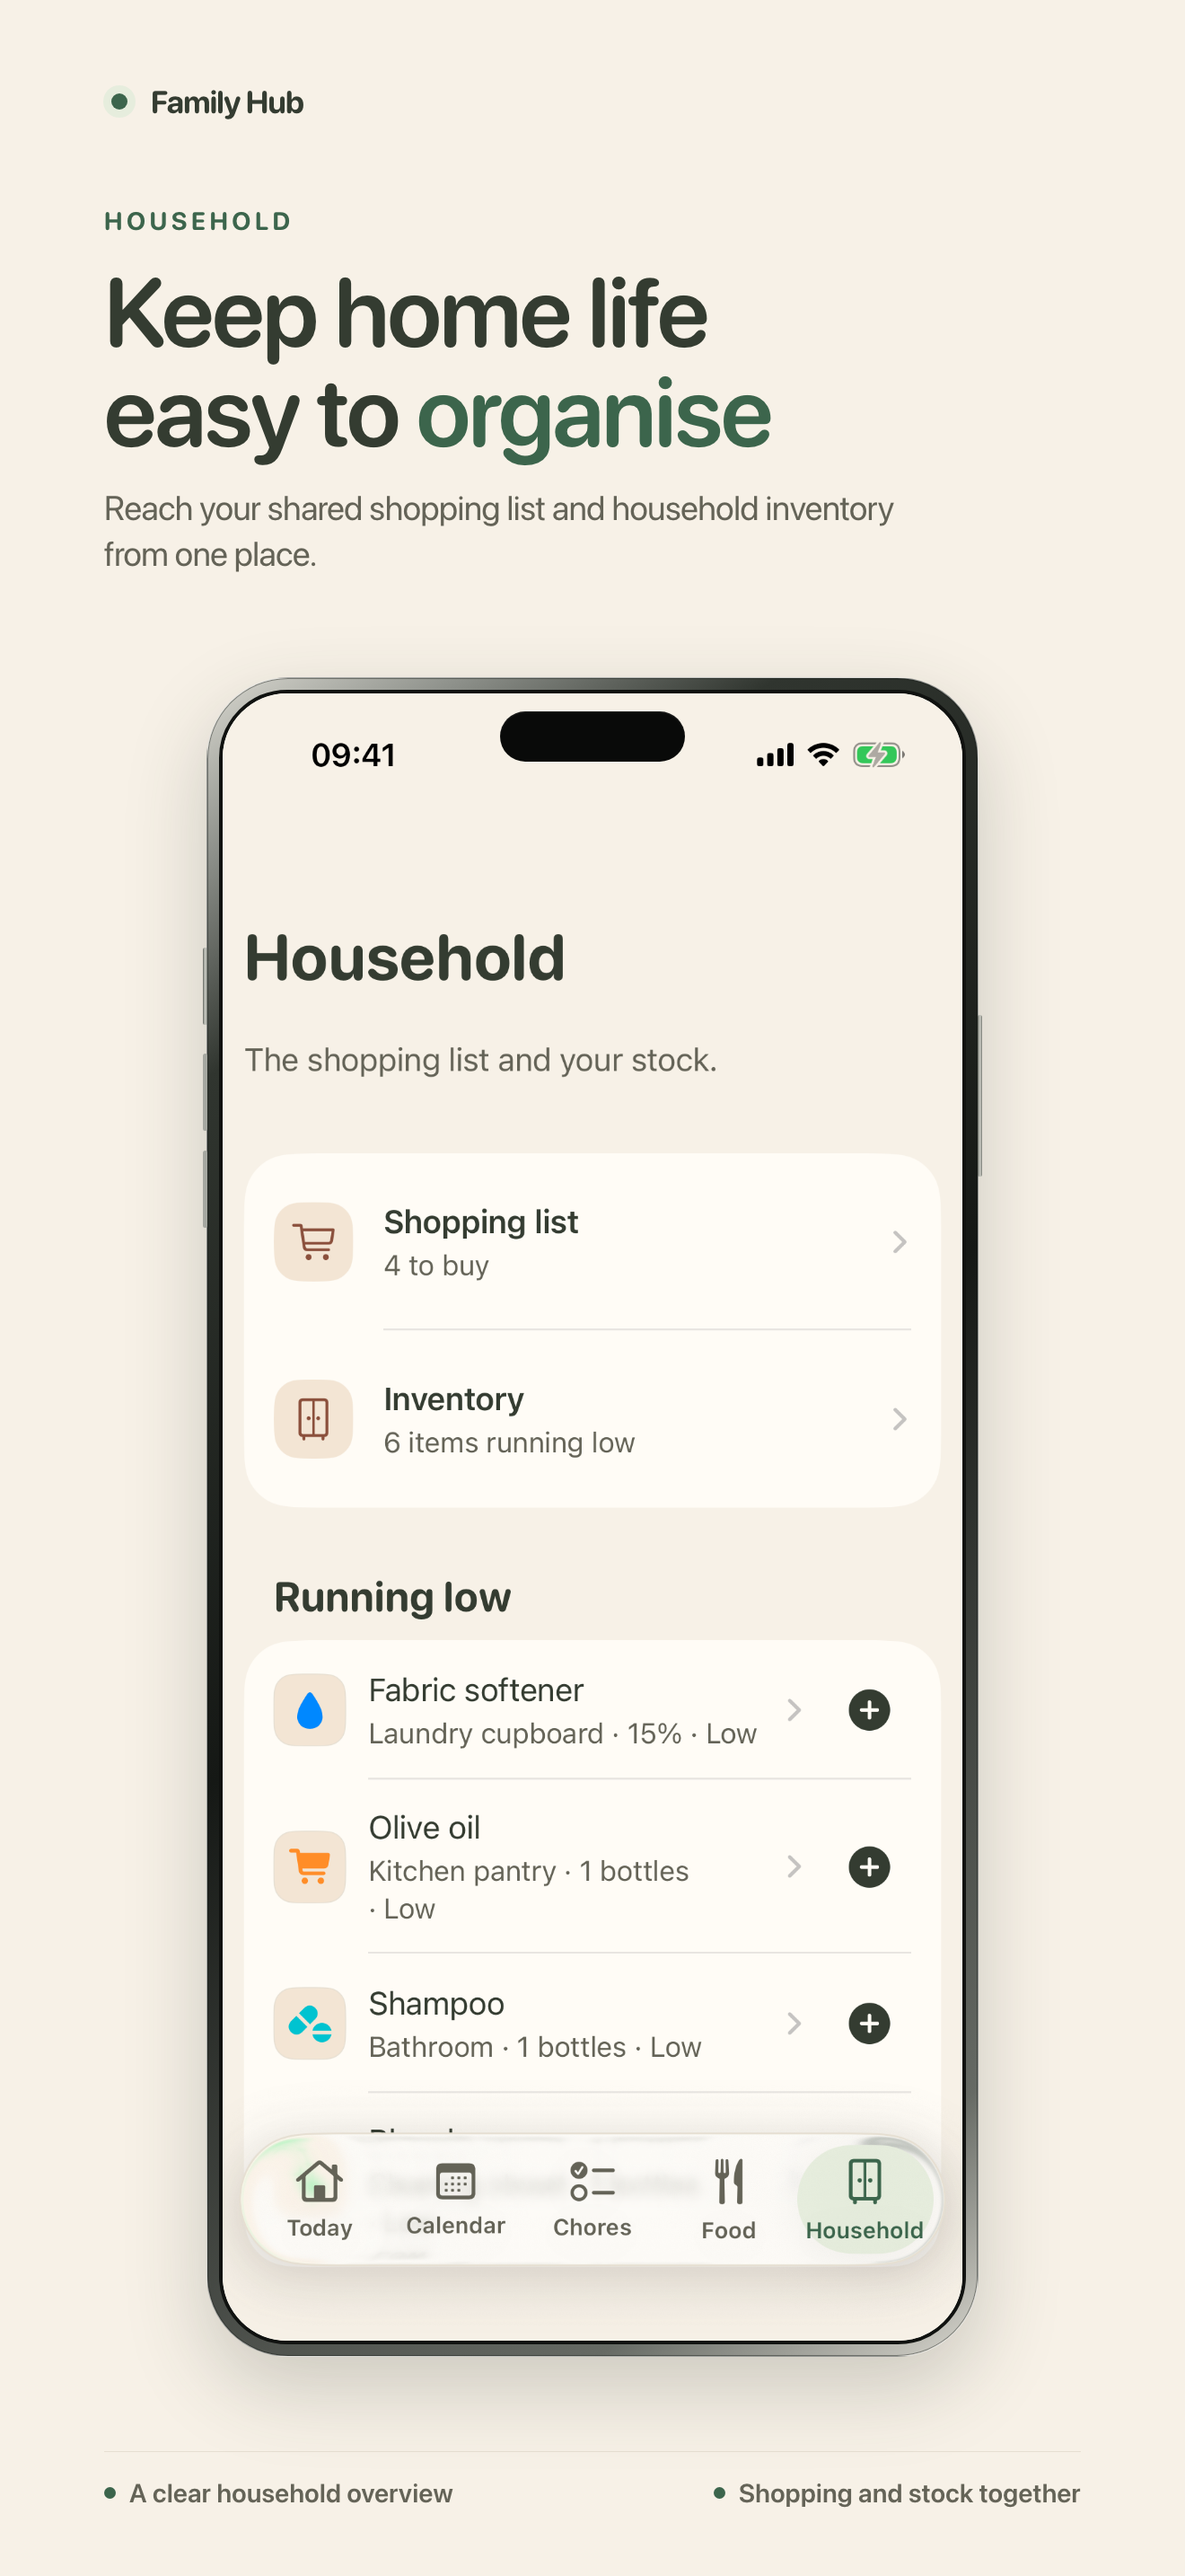
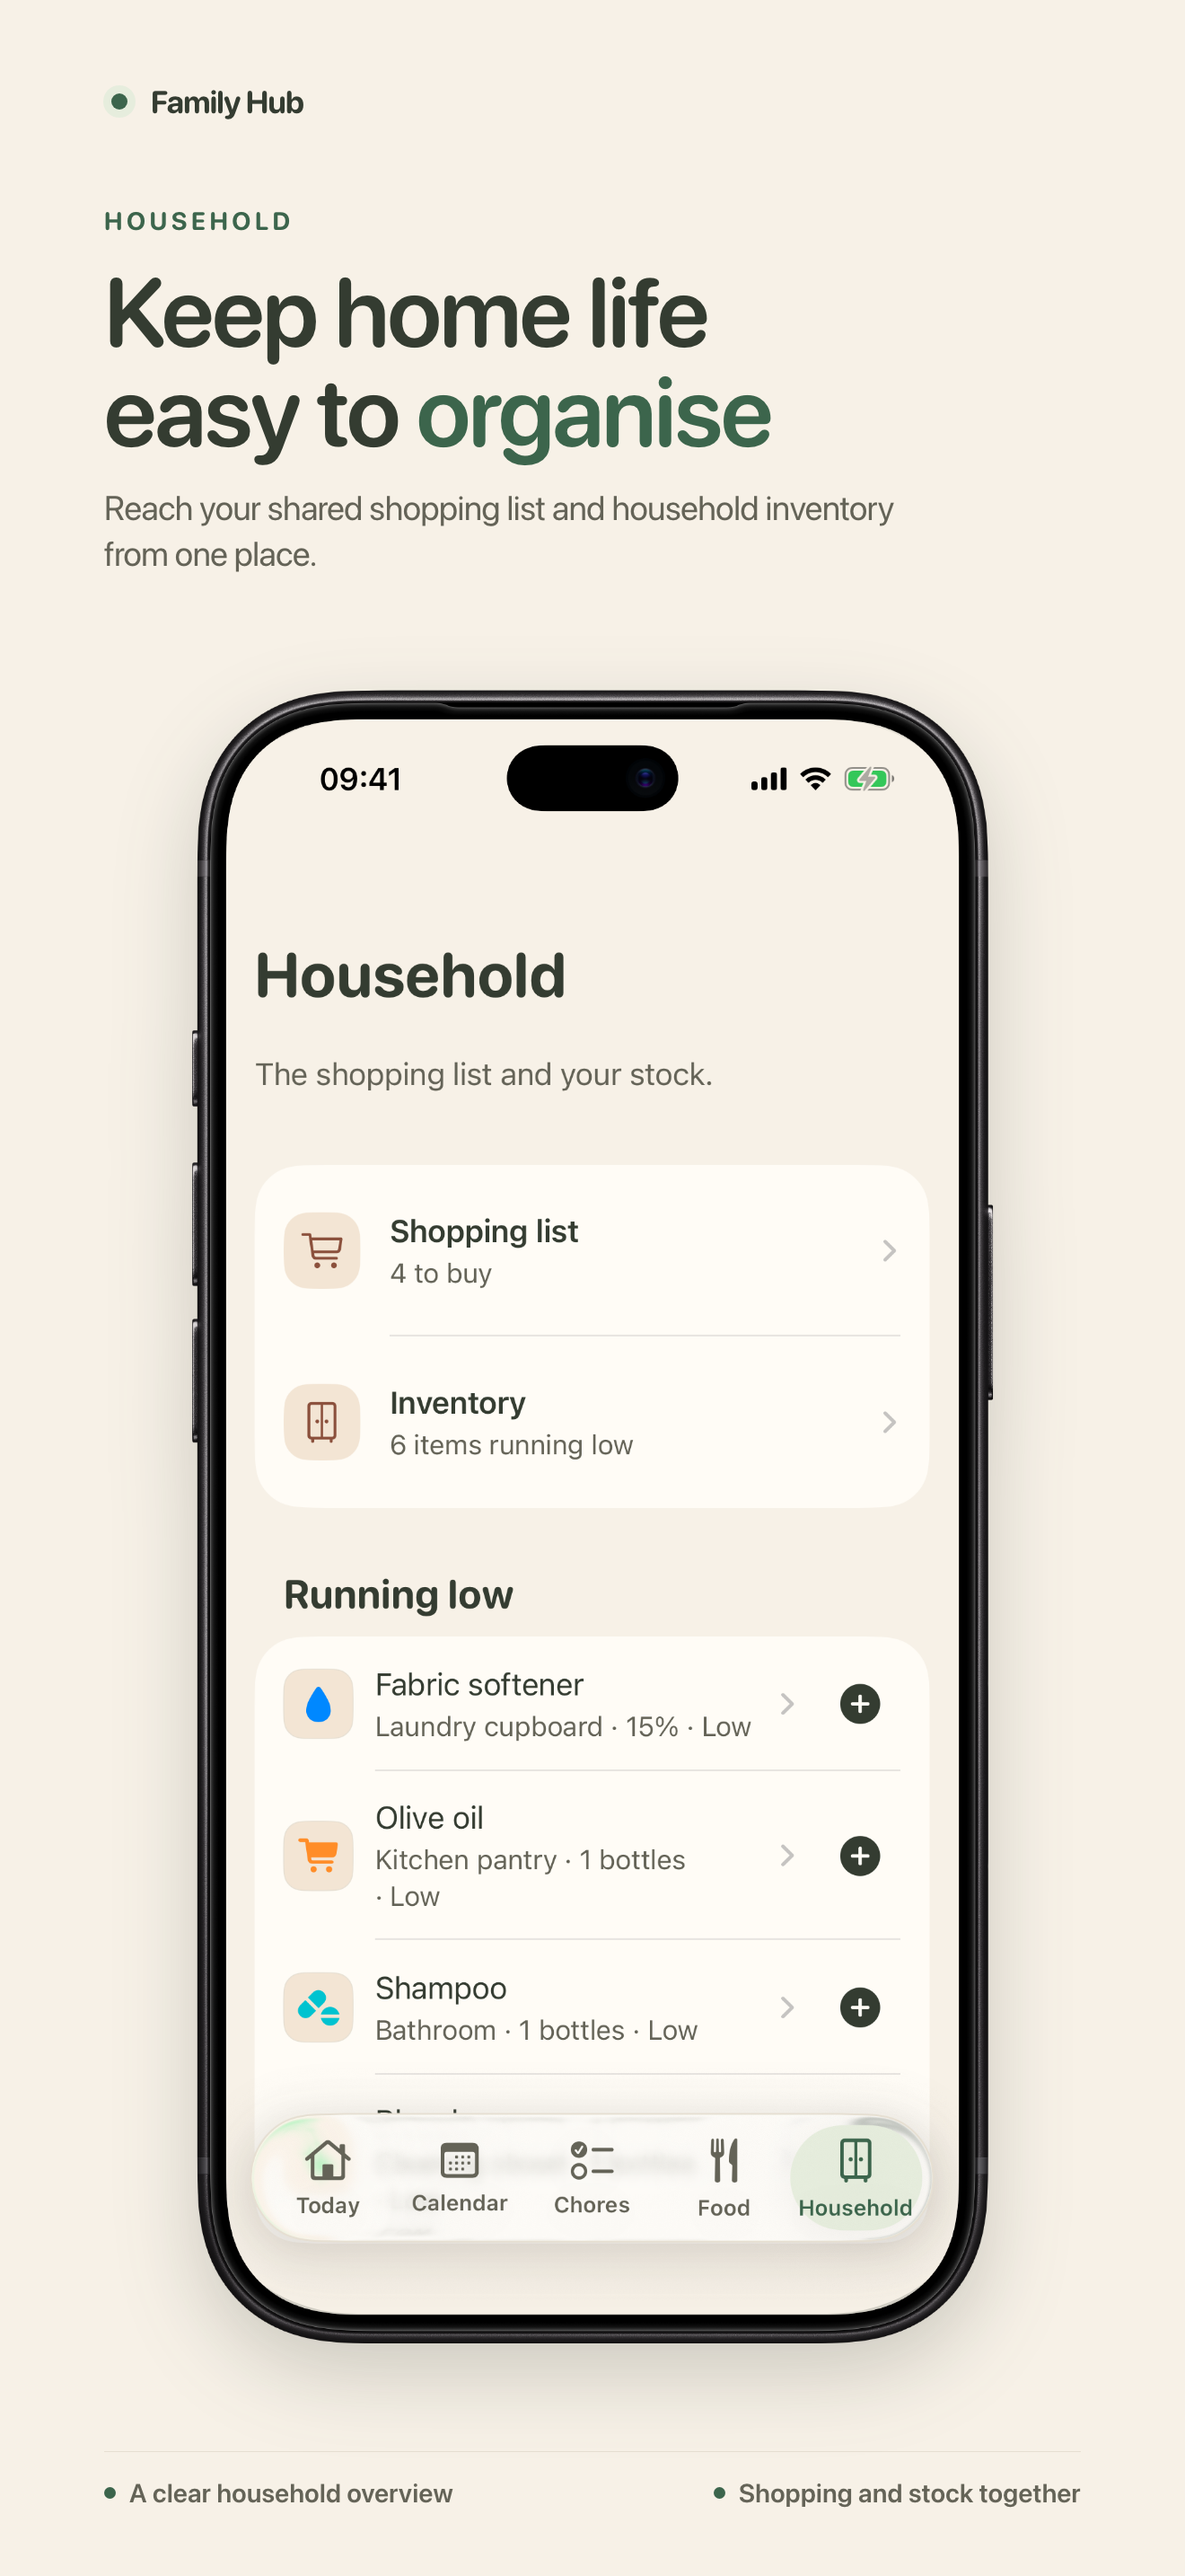
Use provided iPhone bezel in marketing slides

diff --git a/ios/marketing/screenshots/lib/slide.css b/ios/marketing/screenshots/lib/slide.css
@@ -107,59 +107,28 @@ h1 mark {
   position: relative;
   height: 100%;
   max-height: 1870px;
-  aspect-ratio: 0.46;
-  padding: 13px;
-  border: 1px solid rgba(255, 255, 255, 0.48);
-  border-radius: 91px;
-  background: linear-gradient(145deg, #d9d8d0 0%, #8e918b 8%, #30352f 18%, #151815 50%, #666a64 88%, #d8d6ce 100%);
-  box-shadow: 0 34px 90px rgba(52, 60, 49, 0.22), inset 0 0 0 1px rgba(20, 24, 20, 0.42);
-}
-
-.phone::before,
-.phone::after {
-  content: "";
-  position: absolute;
-  z-index: 3;
-  width: 5px;
-  border-radius: 4px;
-  background: linear-gradient(90deg, #686c65, #d0d1c9 55%, #777b74);
-}
-
-.phone::before {
-  top: 300px;
-  left: -5px;
-  height: 86px;
-  box-shadow: 0 118px 0 #a6a8a1, 0 226px 0 #a6a8a1;
+  aspect-ratio: 1350 / 2760;
+  filter: drop-shadow(0 34px 45px rgba(52, 60, 49, 0.22));
 }
 
 .phone::after {
-  top: 375px;
-  right: -5px;
-  height: 180px;
-}
-
-.screen {
-  position: relative;
-  width: 100%;
-  height: 100%;
-  overflow: hidden;
-  border: 4px solid #101210;
-  border-radius: 76px;
-  background: var(--surface);
-}
-
-.screen::before {
   content: "";
   position: absolute;
   z-index: 2;
-  top: 20px;
-  left: 50%;
-  width: 206px;
-  height: 56px;
-  transform: translateX(-50%);
-  border-radius: 32px;
-  background: #090a09;
-  box-shadow: inset 0 1px 2px rgba(255, 255, 255, 0.12);
+  inset: 0;
+  background: url("../assets/iphone-frame.png") center / 100% 100% no-repeat;
+  pointer-events: none;
+}
+
+.screen {
+  position: absolute;
+  top: 2.50%;
+  left: 5.33%;
+  width: 89.33%;
+  height: 94.96%;
+  overflow: hidden;
+  border-radius: 18% / 6%;
+  background: transparent;
 }
 
 .capture {

diff --git a/ios/marketing/screenshots/README.md b/ios/marketing/screenshots/README.md
@@ -62,6 +62,7 @@ The simulator flow records deterministic demo content. It does not change the no
 ## Template design
 
 - `lib/slide.css` holds the shared cream, sage and clay palette, system typography, phone frame and benefit labels.
+- `assets/iphone-frame.png` supplies the transparent graphite iPhone bezel used by the screenshot slides.
 - `slides/*.html` holds per-screen headlines, copy and screenshot mappings.
 - `render.sh` checks for every required capture and fails before rendering if any are missing.
 
